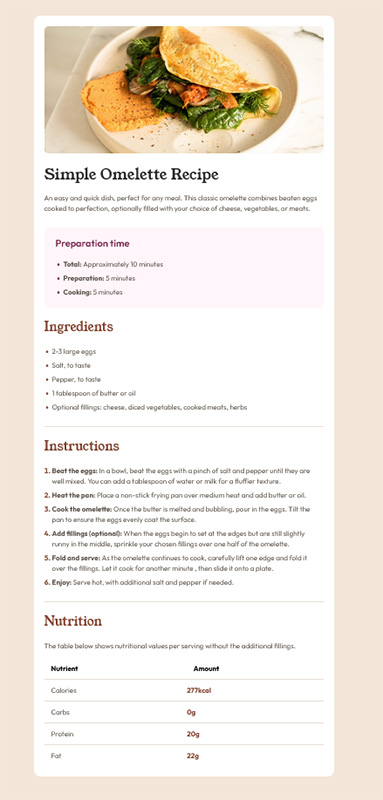
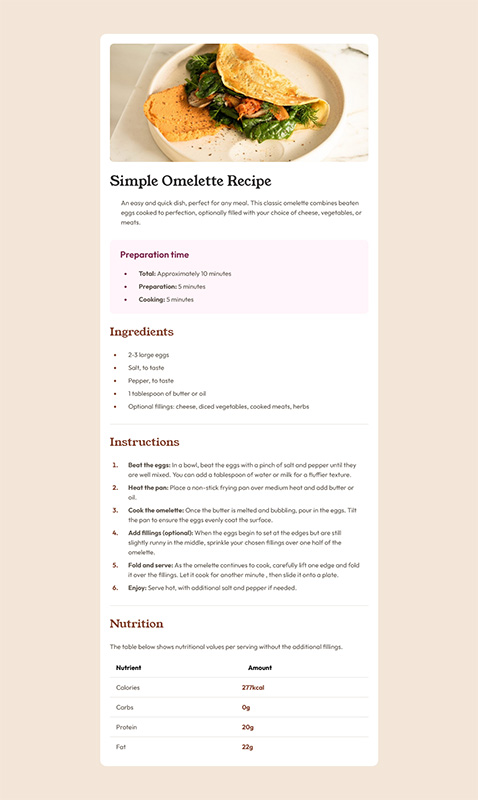
Improve spacing involving <li> items

diff --git a/assets/styles.css b/assets/styles.css
@@ -65,6 +65,8 @@ h2 {
 p, li {
     color: var(--stone-600-color);
     margin-block-end: 0.5em;
+    margin-inline-start: 0.375em;
+    padding-inline-start: 1.375em;
 }
 
 li::marker {
